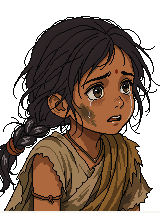
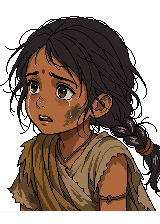
Dialogue: per-node portrait facing + narrator nameplate toggle + SO/prefab edits
- New PortraitFacing (Left = default art, Right = flip scale.x ×-1), per node;
  threaded node -> runner -> view and applied to the active portrait slot.
- DialogueView hides the whole nameplate for narrator/empty-name lines and shows
  it again for a real speaker (new _namePlate reference).
- Manual edits: OPENING_CH01 script, DialogueView prefab, Village Child portrait.
- 20 dialogue EditMode tests green (added facing-threads-through coverage).

diff --git a/Assets/Scripts/Core/UI/Dialogue/DialogueView.cs b/Assets/Scripts/Core/UI/Dialogue/DialogueView.cs
@@ -19,6 +19,8 @@ namespace ProjectAstra.Core.UI.Dialogue
         [SerializeField] private Image _rightPortrait;
         [SerializeField] private Image _centerPortrait;
         [SerializeField] private TMP_Text _nameLabel;
+        [Tooltip("The whole nameplate panel (plate + label). Hidden for narrator / empty-name lines.")]
+        [SerializeField] private GameObject _namePlate;
         [SerializeField] private TMP_Text _bodyText;
         [SerializeField] private GameObject _continueHint;
 
@@ -30,7 +32,7 @@ namespace ProjectAstra.Core.UI.Dialogue
         public void ShowLine(in DialogueLineView line)
         {
             ApplyBackground(line.Background);
-            ApplyPortrait(line.Portrait, line.Position);
+            ApplyPortrait(line.Portrait, line.Position, line.Facing);
             ApplyName(line.SpeakerName);
             _bodyText.text = line.Text ?? string.Empty;
             _bodyText.maxVisibleCharacters = 0;
@@ -58,14 +60,27 @@ namespace ProjectAstra.Core.UI.Dialogue
 
         // Assigns the speaking portrait to its side and keeps it; the active side is
         // lit, every other shown portrait dims — the "facing each other" feel.
-        private void ApplyPortrait(Sprite portrait, PortraitPosition position)
+        private void ApplyPortrait(Sprite portrait, PortraitPosition position, PortraitFacing facing)
         {
             if (portrait != null && position != PortraitPosition.None)
-                AssignPortrait(SlotFor(position), portrait);
+            {
+                var slot = SlotFor(position);
+                AssignPortrait(slot, portrait);
+                ApplyFacing(slot, facing);
+            }
 
             Tint(_leftPortrait, position == PortraitPosition.Left);
             Tint(_rightPortrait, position == PortraitPosition.Right);
             Tint(_centerPortrait, position == PortraitPosition.Center);
+        }
+
+        // Art faces Left by default; Right mirrors the portrait horizontally.
+        private static void ApplyFacing(Image slot, PortraitFacing facing)
+        {
+            if (slot == null) return;
+            var scale = slot.rectTransform.localScale;
+            scale.x = Mathf.Abs(scale.x) * (facing == PortraitFacing.Right ? -1f : 1f);
+            slot.rectTransform.localScale = scale;
         }
 
         private Image SlotFor(PortraitPosition position) => position switch
@@ -88,11 +103,16 @@ namespace ProjectAstra.Core.UI.Dialogue
             slot.color = active ? ActiveTint : DimTint;
         }
 
+        // Narrator/system lines have no name — hide the whole plate so an empty plate
+        // doesn't linger, and bring it back the moment a real speaker appears.
         private void ApplyName(string speakerName)
         {
-            if (_nameLabel == null) return;
-            _nameLabel.text = speakerName ?? string.Empty;
-            _nameLabel.gameObject.SetActive(!string.IsNullOrEmpty(speakerName));
+            bool hasName = !string.IsNullOrEmpty(speakerName);
+            if (_nameLabel != null) _nameLabel.text = speakerName ?? string.Empty;
+
+            var plate = _namePlate != null ? _namePlate
+                      : _nameLabel != null ? _nameLabel.gameObject : null;
+            if (plate != null) plate.SetActive(hasName);
         }
     }
 }

diff --git a/Assets/Scripts/Core.Tests/Dialogue/DialogueRunnerTests.cs b/Assets/Scripts/Core.Tests/Dialogue/DialogueRunnerTests.cs
@@ -201,6 +201,17 @@ namespace ProjectAstra.Core.Tests.Dialogue
             Assert.IsTrue(_view.HintVisible, "an empty line is instantly 'complete' and waits for confirm");
         }
 
+        [Test]
+        public void PortraitFacing_ThreadsThroughToLine()
+        {
+            var script = DialogueScript.CreateForTest("S",
+                DialogueNode.CreateForTest(0, "A", "Hi", facing: PortraitFacing.Right));
+
+            Build(script).Start();
+
+            Assert.AreEqual(PortraitFacing.Right, _view.Lines[0].Facing);
+        }
+
         private sealed class FakeView : IDialogueView
         {
             public int ShowCount;

diff --git a/Assets/Scripts/Core/Dialogue/PortraitFacing.cs b/Assets/Scripts/Core/Dialogue/PortraitFacing.cs
@@ -1,0 +1,11 @@
+namespace ProjectAstra.Core.Dialogue
+{
+    // Which way a speaker's portrait looks. Art is authored facing Left by default;
+    // Right mirrors the portrait horizontally (scale.x × −1) so a speaker placed on
+    // the left can look toward the centre of the screen.
+    public enum PortraitFacing
+    {
+        Left,
+        Right
+    }
+}

diff --git a/Assets/Scripts/Core/Dialogue/DialogueNode.cs b/Assets/Scripts/Core/Dialogue/DialogueNode.cs
@@ -13,6 +13,10 @@ namespace ProjectAstra.Core.Dialogue
         [SpeakerId, SerializeField] private string _speakerId;
         [SerializeField] private DialogueExpression _expression = DialogueExpression.Neutral;
         [SerializeField] private PortraitPosition _portraitPosition = PortraitPosition.Left;
+
+        [Tooltip("Which way the portrait looks. Art faces Left by default; Right flips it horizontally (scale.x × −1).")]
+        [SerializeField] private PortraitFacing _portraitFacing = PortraitFacing.Left;
+
         [SerializeField, TextArea(2, 5)] private string _text;
 
         [Tooltip("Characters per second for this line. Leave below 0 to use the global text speed.")]
@@ -28,6 +32,7 @@ namespace ProjectAstra.Core.Dialogue
         public string SpeakerId => _speakerId;
         public DialogueExpression Expression => _expression;
         public PortraitPosition PortraitPosition => _portraitPosition;
+        public PortraitFacing PortraitFacing => _portraitFacing;
         public string Text => _text;
         public Sprite FullScreenImage => _fullScreenImage;
 
@@ -44,7 +49,8 @@ namespace ProjectAstra.Core.Dialogue
         internal static DialogueNode CreateForTest(int nodeId, string speakerId, string text,
             DialogueExpression expression = DialogueExpression.Neutral,
             PortraitPosition position = PortraitPosition.Left,
-            float textSpeedOverride = -1f, float autoAdvanceDelay = 0f)
+            float textSpeedOverride = -1f, float autoAdvanceDelay = 0f,
+            PortraitFacing facing = PortraitFacing.Left)
         {
             return new DialogueNode
             {
@@ -53,6 +59,7 @@ namespace ProjectAstra.Core.Dialogue
                 _text = text,
                 _expression = expression,
                 _portraitPosition = position,
+                _portraitFacing = facing,
                 _textSpeedOverride = textSpeedOverride,
                 _autoAdvanceDelay = autoAdvanceDelay
             };

diff --git a/Assets/Scripts/Core/Dialogue/IDialogueView.cs b/Assets/Scripts/Core/Dialogue/IDialogueView.cs
@@ -8,14 +8,17 @@ namespace ProjectAstra.Core.Dialogue
     {
         public readonly Sprite Portrait;
         public readonly PortraitPosition Position;
+        public readonly PortraitFacing Facing;
         public readonly string SpeakerName;
         public readonly string Text;
         public readonly Sprite Background;
 
-        public DialogueLineView(Sprite portrait, PortraitPosition position, string speakerName, string text, Sprite background)
+        public DialogueLineView(Sprite portrait, PortraitPosition position, PortraitFacing facing,
+            string speakerName, string text, Sprite background)
         {
             Portrait = portrait;
             Position = position;
+            Facing = facing;
             SpeakerName = speakerName;
             Text = text;
             Background = background;

diff --git a/Assets/Scripts/Core/Dialogue/DialogueRunner.cs b/Assets/Scripts/Core/Dialogue/DialogueRunner.cs
@@ -136,7 +136,7 @@ namespace ProjectAstra.Core.Dialogue
 
             if (DialogueSpeakerRegistry.IsNarrator(node.SpeakerId))
             {
-                line = new DialogueLineView(null, node.PortraitPosition, string.Empty, node.Text, node.FullScreenImage);
+                line = new DialogueLineView(null, node.PortraitPosition, node.PortraitFacing, string.Empty, node.Text, node.FullScreenImage);
                 return true;
             }
 
@@ -144,7 +144,7 @@ namespace ProjectAstra.Core.Dialogue
                 return false;
 
             var portrait = hidden ? null : speaker.ResolvePortrait(node.Expression);
-            line = new DialogueLineView(portrait, node.PortraitPosition, speaker.DisplayName, node.Text, node.FullScreenImage);
+            line = new DialogueLineView(portrait, node.PortraitPosition, node.PortraitFacing, speaker.DisplayName, node.Text, node.FullScreenImage);
             return true;
         }
 